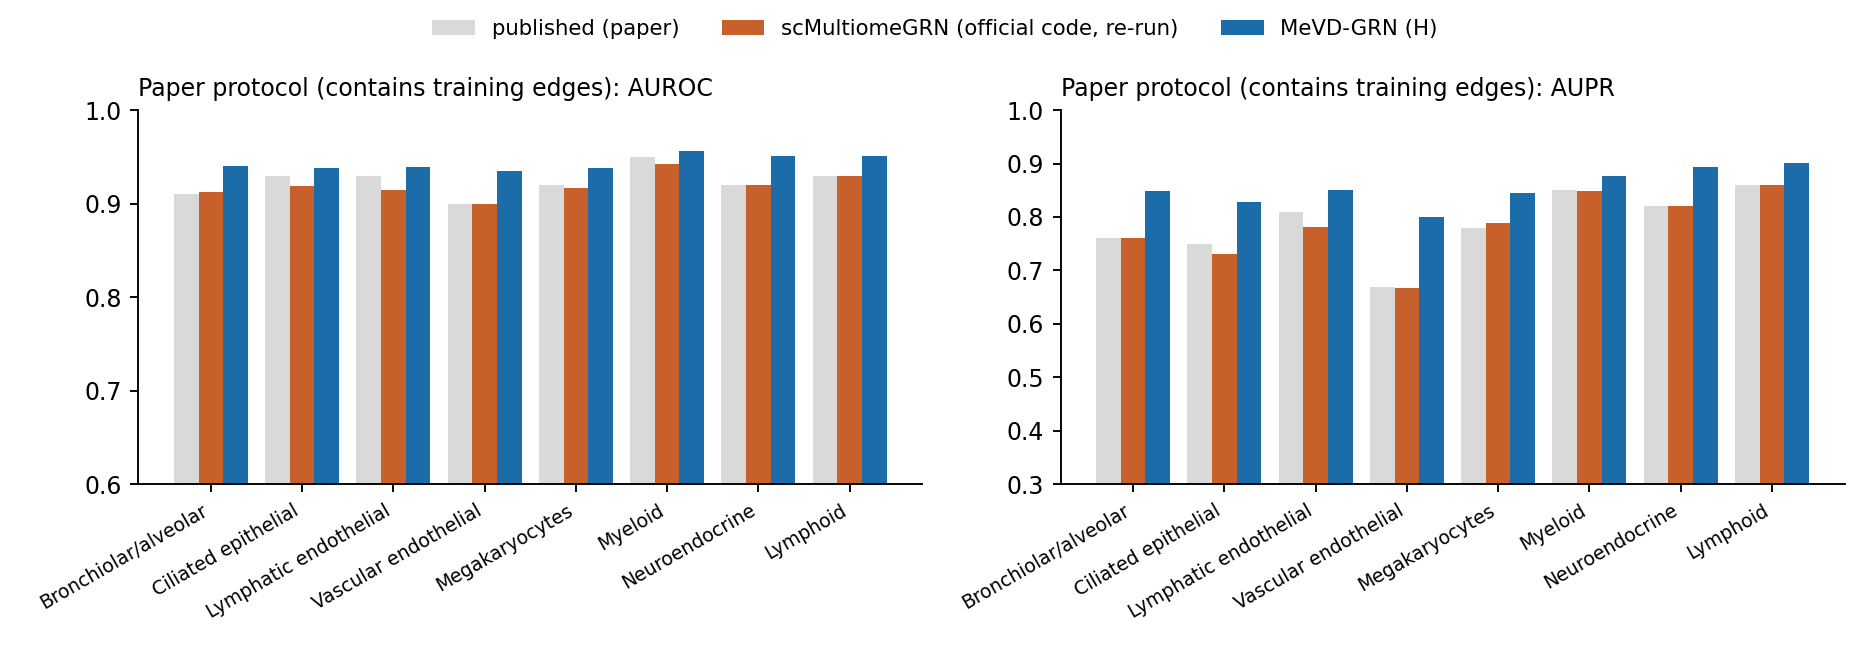
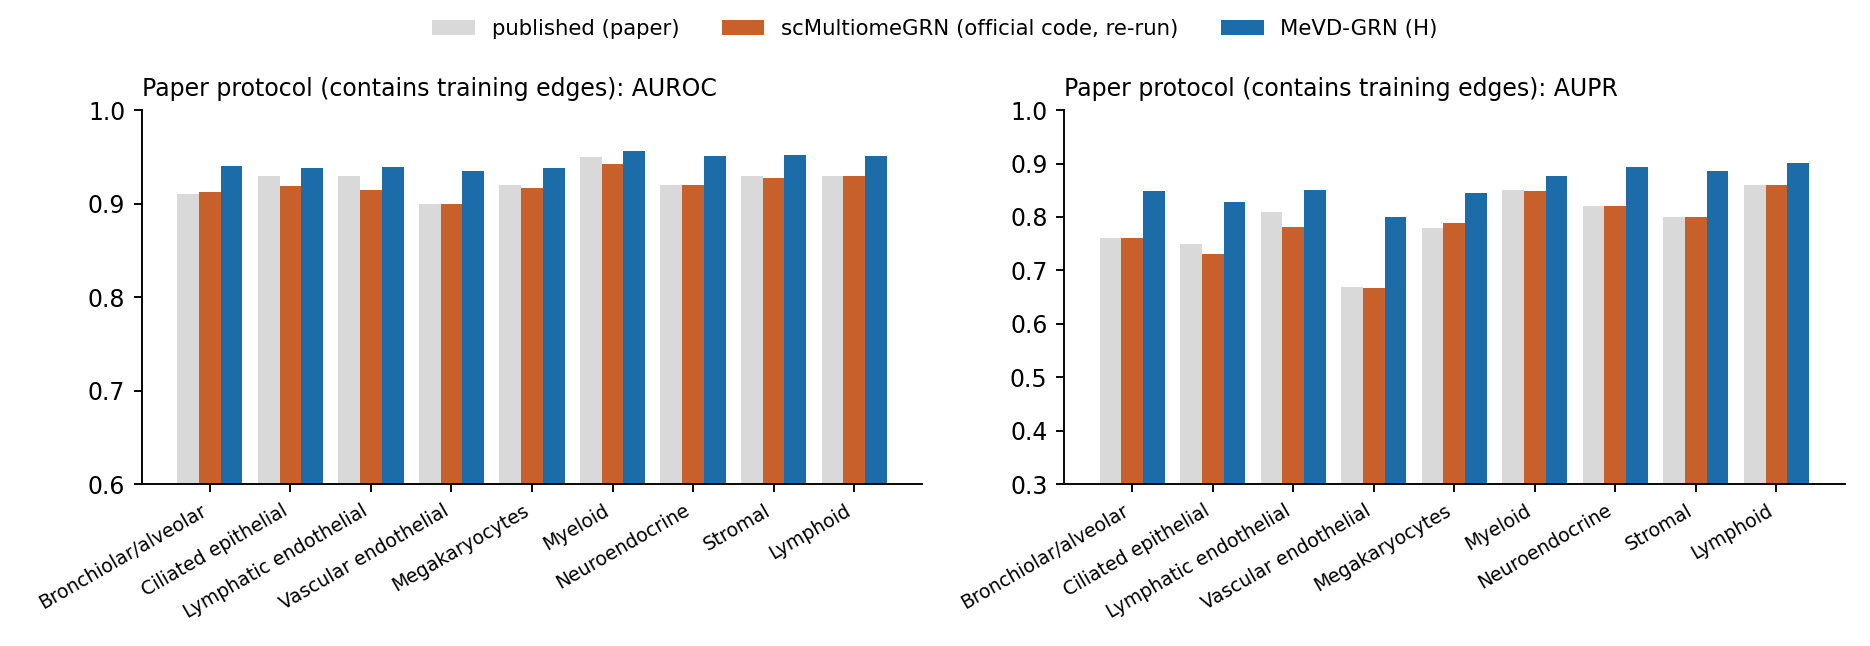
deck: all 9 lung cell types finished; lung averages; ablation section placeholder

diff --git a/docs/presentation/presentation_11th_oct_17th_oct.md b/docs/presentation/presentation_11th_oct_17th_oct.md
@@ -9,7 +9,7 @@ Branch `scmgrn-tftf`. Experiment write-up with every deviation: `docs/experiment
 
 ---
 
-## 1. Summary (updated 16 Oct, 18:20; 8 of 9 lung cell types and all 3 hematopoiesis cell types have both methods finished)
+## 1. Summary (updated 16 Oct, 20:20; all 9 lung and all 3 hematopoiesis cell types have both methods finished)
 
 1. **We rebuilt scMultiomeGRN's benchmark and reproduced its published numbers.** The regenerated TF-TF answer keys are within
    5% of the paper's link counts on all 9 lung cell types, our fold files are byte-identical to what their split code writes,
@@ -17,13 +17,13 @@ Branch `scmgrn-tftf`. Experiment write-up with every deviation: `docs/experiment
    Myeloid 0.943 / 0.849, HSC 0.927 / 0.696, on the paper's metric).
 2. **We changed MeVD-GRN to predict undirected TF-TF links**, the task scMultiomeGRN solves (it used to predict directed TF-to-gene edges),
    and gave it scMultiomeGRN's own inputs.
-3. **On the held-out test fold, MeVD-GRN beats scMultiomeGRN on 7 of the 8 lung cell types finished, and on all three hematopoiesis cell types.**
-   Lung, pooled: **+0.017 AUPR, +0.013 AUROC**; individually significant on 5 of 8 cell types. Hematopoiesis, pooled over HSC, CMP and GMP: +0.017 AUPR (+0.020 HSC, +0.023 CMP, +0.008 GMP) and +0.009 AUROC.
+3. **On the held-out test fold, MeVD-GRN beats scMultiomeGRN on 8 of the 9 lung cell types, and on all three hematopoiesis cell types.**
+   Lung, averaged over the 9 cell types: MeVD-GRN 0.922 / 0.935 vs scMultiomeGRN 0.910 / 0.918 (AUROC / AUPR); pooled paired gain **+0.017 AUPR, +0.012 AUROC**; individually significant on 6 of 9 cell types. Hematopoiesis, pooled over HSC, CMP and GMP: +0.017 AUPR (+0.020 HSC, +0.023 CMP, +0.008 GMP) and +0.009 AUROC.
    The gains are small (1 to 3 points) next to the fold-to-fold spread (2 to 5 points). Myeloid is the one lung cell type where scMultiomeGRN is ahead (not significant).
 4. **The ablations say the gain does not come from the scMultiomeGRN-specific inputs or from the training graph.** A variant that never sees
    the training links scores the same as the full model. This fits the main caveat of the benchmark: the answer key is generated from the
    same ATAC data the models read (section 10).
-5. **Status:** see section 12. Remaining: the scMultiomeGRN official-code run on Stromal (lung), expected around 20:30; its MeVD-GRN runs are finished.
+5. **Status:** all main runs are finished (section 12). Component ablations of MeVD-GRN are running (section 8b).
 
 ---
 
@@ -177,15 +177,16 @@ the links the model trained on). We report both and label the second.
 | Bronchiolar and alveolar | 0.91 / 0.76 | 0.913 / 0.760 |
 | Ciliated epithelial | 0.93 / 0.75 | 0.918 / 0.730 |
 | Vascular endothelial | 0.90 / 0.67 | 0.899 / 0.668 |
+| Stromal | 0.93 / 0.80 | 0.927 / 0.800 |
 | HSC (hematopoiesis) | 0.92 / 0.67 | 0.927 / 0.696 |
 | CMP (hematopoiesis) | 0.92 / 0.66 | 0.927 / 0.692 |
 | GMP (hematopoiesis) | 0.93 / 0.71 | 0.928 / 0.681 |
 
-The re-runs match the paper to within about 0.01 AUROC and 0.03 AUPR (closest on Bronchiolar, Myeloid, Lymphoid, Neuroendocrine, HSC). The benchmark therefore reproduces the paper; comparisons made on it are meaningful.
+Averaged over the 9 lung cell types the official re-run scores 0.920 / 0.784 on the paper's metric, against the paper's reported average of 0.924 / 0.790. Per cell type the re-runs match to within about 0.01 AUROC and 0.03 AUPR (closest on Bronchiolar, Myeloid, Lymphoid, Neuroendocrine, Stromal, HSC). The benchmark therefore reproduces the paper; comparisons made on it are meaningful.
 
 ---
 
-## 7. Headline result: held-out test fold, lung (8 of 9 cell types finished)
+## 7. Headline result: held-out test fold, lung (all 9 cell types)
 
 AUROC / AUPR, mean over 10 folds then over seeds.
 
@@ -194,11 +195,13 @@ AUROC / AUPR, mean over 10 folds then over seeds.
 | Bronchiolar and alveolar | **0.914 / 0.930** | 0.913 / 0.930 | 0.913 / 0.929 | 0.915 / 0.931 | 0.901 / 0.911 |
 | Ciliated epithelial | **0.928 / 0.940** | 0.928 / 0.940 | 0.927 / 0.939 | 0.928 / 0.940 | 0.912 / 0.915 |
 | Vascular endothelial | **0.923 / 0.934** | 0.923 / 0.935 | 0.921 / 0.932 | 0.923 / 0.934 | 0.894 / 0.902 |
+| Stromal | **0.929 / 0.941** | 0.929 / 0.941 | 0.929 / 0.941 | 0.928 / 0.940 | 0.920 / 0.923 |
 | Lymphatic endothelial | **0.922 / 0.937** | 0.921 / 0.935 | 0.920 / 0.934 | 0.919 / 0.933 | 0.908 / 0.917 |
 | Megakaryocytes | **0.905 / 0.923** | 0.907 / 0.925 | 0.902 / 0.923 | 0.901 / 0.920 | 0.898 / 0.915 |
 | Myeloid | 0.927 / 0.933 | 0.928 / 0.936 | 0.928 / 0.937 | 0.930 / 0.939 | **0.930 / 0.943** |
 | Neuroendocrine | **0.927 / 0.938** | 0.928 / 0.939 | 0.929 / 0.940 | 0.928 / 0.939 | 0.912 / 0.917 |
 | Lymphoid | **0.926 / 0.935** | 0.922 / 0.932 | 0.927 / 0.937 | 0.921 / 0.926 | 0.917 / 0.918 |
+| **Average of the 9** | **0.922 / 0.935** | 0.922 / 0.935 | 0.922 / 0.935 | 0.921 / 0.934 | 0.910 / 0.918 |
 
 ![held-out test fold](figs_scmgrn/fig_test.png)
 
@@ -211,13 +214,14 @@ Fold-paired comparison, H minus official code (10 folds per cell type, Wilcoxon 
 | Neuroendocrine | +0.021 | 0.002 | +0.015 | 0.004 |
 | Lymphatic endothelial | +0.020 | 0.002 | +0.014 | 0.010 |
 | Bronchiolar and alveolar | +0.019 | 0.004 | +0.013 | 0.014 |
+| Stromal | +0.019 | 0.004 | +0.009 | 0.020 |
 | Lymphoid | +0.017 | 0.105 | +0.009 | 0.375 |
 | Megakaryocytes | +0.009 | 0.160 | +0.007 | 0.275 |
 | Myeloid | -0.011 | 0.375 | -0.003 | 0.695 |
-| **Pooled (80 fold pairs)** | **+0.017** | **2e-9** | **+0.013** | **2e-8** |
+| **Pooled (90 fold pairs)** | **+0.017** | **5e-11** | **+0.012** | **2e-9** |
 
-In 82% of the 80 cell-type-by-fold pairs MeVD-GRN is ahead on AUPR (76% on AUROC).
-How to read this: the gains are small (one to three points of AUPR), the fold-to-fold standard deviation is 2 to 5 points, 5 of 8 cell types are
+In 83% of the 90 cell-type-by-fold pairs MeVD-GRN is ahead on AUPR (78% on AUROC).
+How to read this: the gains are small (one to three points of AUPR), the fold-to-fold standard deviation is 2 to 5 points, 6 of 9 cell types are
 individually significant (with only 10 folds each, p = 0.002 is the smallest value a paired test can give), and the pooled p-value treats folds
 within a cell type as independent although they share a graph, so it is optimistic.
 
@@ -239,6 +243,15 @@ because the answer key is a function of the same ATAC data (section 9).
 
 ---
 
+## 8b. Component ablations of MeVD-GRN (all 12 cell types)  [UPDATE: running, results appended when finished]
+
+Each ablation changes one component of the headline variant H (same folds, 5 seeds, zero-leak). Planned set:
+no Geneformer embedding; no ATAC channel; no graph network; co-expression graph only; TF-candidate graph only; base size (128-wide, no Geneformer);
+only the scMultiomeGRN node features; only the pair histograms. Together with A1-A3 above.
+Table: mean held-out AUROC / AUPR over the cell types, difference to H, fold-paired Wilcoxon p (`scripts/20_scmgrn_ablation_table.py`).
+
+---
+
 ## 9. Same benchmark, the paper's own protocol (full matrix; contains training links)
 
 AUROC / AUPR. **This set includes the links the model was trained on, so it is not a leakage-free measure.** Shown to compare with the published numbers.
@@ -248,15 +261,17 @@ AUROC / AUPR. **This set includes the links the model was trained on, so it is n
 | Bronchiolar and alveolar | 0.940 / 0.849 | 0.938 / 0.855 | 0.913 / 0.760 | 0.91 / 0.76 |
 | Ciliated epithelial | 0.938 / 0.828 | 0.939 / 0.833 | 0.918 / 0.730 | 0.93 / 0.75 |
 | Vascular endothelial | 0.935 / 0.800 | 0.935 / 0.802 | 0.899 / 0.668 | 0.90 / 0.67 |
+| Stromal | 0.952 / 0.886 | 0.953 / 0.890 | 0.927 / 0.800 | 0.93 / 0.80 |
 | Lymphatic endothelial | 0.939 / 0.850 | 0.942 / 0.862 | 0.915 / 0.781 | 0.93 / 0.81 |
 | Megakaryocytes | 0.938 / 0.846 | 0.937 / 0.855 | 0.917 / 0.788 | 0.92 / 0.78 |
 | Myeloid | 0.956 / 0.877 | 0.958 / 0.892 | 0.943 / 0.849 | 0.95 / 0.85 |
 | Neuroendocrine | 0.951 / 0.893 | 0.952 / 0.900 | 0.920 / 0.820 | 0.92 / 0.82 |
 | Lymphoid | 0.951 / 0.902 | 0.950 / 0.898 | 0.929 / 0.861 | 0.93 / 0.86 |
+| **Average of the 9** | 0.945 / 0.859 | 0.945 / 0.865 | 0.920 / 0.784 | 0.924 / 0.79 |
 
 ![paper protocol](figs_scmgrn/fig_paper.png)
 
-The pooled difference on this set is +0.074 AUPR (80 pairs). It is larger than on the held-out fold because a higher-capacity model fits the training links better;
+The pooled difference on this set is +0.075 AUPR (90 pairs). It is larger than on the held-out fold because a higher-capacity model fits the training links better;
 it should not be read as better generalisation.
 
 ---
@@ -297,7 +312,7 @@ rather than from per-cell BAM files, and the CMP scRNA cells (cmp0, cmp1, cmp2) 
   rule, without learning regulation. The same holds for scMultiomeGRN; the ablations suggest it holds for us too. This benchmark cannot tell
   "learns regulation" from "learns the construction rule".
 - **Lung "RNA" is gene-body accessibility**, not expression, so both modalities come from ATAC.
-- **Small graphs:** the finished lung cell types have 41 to 228 TFs and 266 to 4,254 links; each held-out fold has only 27 to 425 positive links (hematopoiesis: 150 to 171 TFs, 1,500 to 2,000 links).
+- **Small graphs:** the lung cell types have 41 to 271 TFs and 266 to 5,026 links; each held-out fold has only 27 to 503 positive links (hematopoiesis: 150 to 171 TFs, 1,500 to 2,000 links).
 - **Official code seeds:** 6 seeds for the first five cell types, 2 (666 and 42) for the rest, because the code is near-deterministic across seeds
   (Myeloid, 6 seeds: all within 0.001) and costs about 5 minutes per fold on the large cell types.
 - **Deviation from the official preprocessing:** the Seurat object stores no variable-gene list, so GRNBoost2 uses genes detected in more than 10% of
@@ -307,13 +322,14 @@ rather than from per-cell BAM files, and the CMP scRNA cells (cmp0, cmp1, cmp2) 
 
 ---
 
-## 12. Progress of the runs (updated 16 Oct, 18:20)
+## 12. Progress of the runs (updated 16 Oct, 20:20)
 
 | Dataset / cell type | Status | MeVD-GRN (4 variants × 5 seeds × 10 folds) | Official code |
 |---|---|---|---|
 | Lung: Myeloid, Lymphoid, Megakaryocytes, Neuroendocrine, Lymphatic | **finished** | done | 6 seeds done |
 | Lung: Bronchiolar, Ciliated, Vascular endothelial | **finished** | done | 2 seeds done |
-| Lung: Stromal (43k cells) | official code running (17 min per fold, 2 seeds in parallel); MeVD-GRN done | done | fold 2 of 10 at 18:05 |
+| Component ablations of MeVD-GRN (8 variants × 5 seeds, all 12 cell types) | running (see 8b) | in progress | – |
+| Lung: Stromal (43k cells) | **finished** (official code: 17 min per fold) | done | 2 seeds done |
 | Hematopoiesis: HSC, CMP, GMP | **finished** | done | 2 seeds done |
 
 *(Further updates are appended below as results arrive.)*
